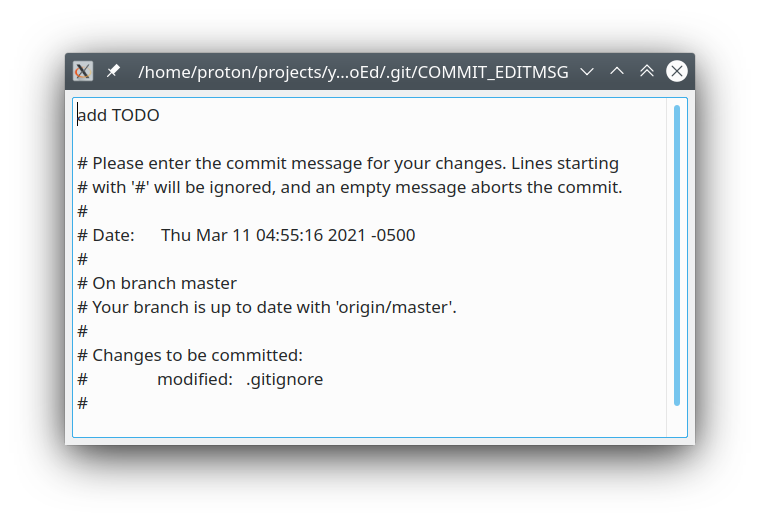
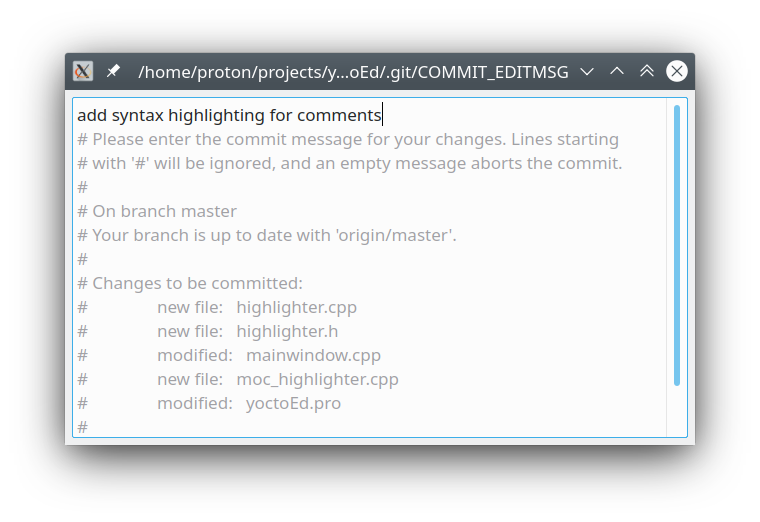
add syntax highlighting for comments

diff --git a/moc_highlighter.cpp b/moc_highlighter.cpp
@@ -1,0 +1,95 @@
+/****************************************************************************
+** Meta object code from reading C++ file 'highlighter.h'
+**
+** Created by: The Qt Meta Object Compiler version 67 (Qt 5.14.2)
+**
+** WARNING! All changes made in this file will be lost!
+*****************************************************************************/
+
+#include <memory>
+#include "highlighter.h"
+#include <QtCore/qbytearray.h>
+#include <QtCore/qmetatype.h>
+#if !defined(Q_MOC_OUTPUT_REVISION)
+#error "The header file 'highlighter.h' doesn't include <QObject>."
+#elif Q_MOC_OUTPUT_REVISION != 67
+#error "This file was generated using the moc from 5.14.2. It"
+#error "cannot be used with the include files from this version of Qt."
+#error "(The moc has changed too much.)"
+#endif
+
+QT_BEGIN_MOC_NAMESPACE
+QT_WARNING_PUSH
+QT_WARNING_DISABLE_DEPRECATED
+struct qt_meta_stringdata_Highlighter_t {
+    QByteArrayData data[1];
+    char stringdata0[12];
+};
+#define QT_MOC_LITERAL(idx, ofs, len) \
+    Q_STATIC_BYTE_ARRAY_DATA_HEADER_INITIALIZER_WITH_OFFSET(len, \
+    qptrdiff(offsetof(qt_meta_stringdata_Highlighter_t, stringdata0) + ofs \
+        - idx * sizeof(QByteArrayData)) \
+    )
+static const qt_meta_stringdata_Highlighter_t qt_meta_stringdata_Highlighter = {
+    {
+QT_MOC_LITERAL(0, 0, 11) // "Highlighter"
+
+    },
+    "Highlighter"
+};
+#undef QT_MOC_LITERAL
+
+static const uint qt_meta_data_Highlighter[] = {
+
+ // content:
+       8,       // revision
+       0,       // classname
+       0,    0, // classinfo
+       0,    0, // methods
+       0,    0, // properties
+       0,    0, // enums/sets
+       0,    0, // constructors
+       0,       // flags
+       0,       // signalCount
+
+       0        // eod
+};
+
+void Highlighter::qt_static_metacall(QObject *_o, QMetaObject::Call _c, int _id, void **_a)
+{
+    Q_UNUSED(_o);
+    Q_UNUSED(_id);
+    Q_UNUSED(_c);
+    Q_UNUSED(_a);
+}
+
+QT_INIT_METAOBJECT const QMetaObject Highlighter::staticMetaObject = { {
+    QMetaObject::SuperData::link<QSyntaxHighlighter::staticMetaObject>(),
+    qt_meta_stringdata_Highlighter.data,
+    qt_meta_data_Highlighter,
+    qt_static_metacall,
+    nullptr,
+    nullptr
+} };
+
+
+const QMetaObject *Highlighter::metaObject() const
+{
+    return QObject::d_ptr->metaObject ? QObject::d_ptr->dynamicMetaObject() : &staticMetaObject;
+}
+
+void *Highlighter::qt_metacast(const char *_clname)
+{
+    if (!_clname) return nullptr;
+    if (!strcmp(_clname, qt_meta_stringdata_Highlighter.stringdata0))
+        return static_cast<void*>(this);
+    return QSyntaxHighlighter::qt_metacast(_clname);
+}
+
+int Highlighter::qt_metacall(QMetaObject::Call _c, int _id, void **_a)
+{
+    _id = QSyntaxHighlighter::qt_metacall(_c, _id, _a);
+    return _id;
+}
+QT_WARNING_POP
+QT_END_MOC_NAMESPACE

diff --git a/highlighter.cpp b/highlighter.cpp
@@ -1,0 +1,22 @@
+#include "highlighter.h"
+
+Highlighter::Highlighter(QTextDocument *parent) : QSyntaxHighlighter(parent)
+{
+
+    HighlightingRule rule;
+    rule.format.setForeground(Qt::gray);
+    rule.pattern = QRegularExpression("#.*");
+    highlightingRules.append(rule);
+
+}
+
+void Highlighter::highlightBlock(const QString &text)
+{
+    for (const HighlightingRule &rule : qAsConst(highlightingRules)) {
+        QRegularExpressionMatchIterator matchIterator = rule.pattern.globalMatch(text);
+        while (matchIterator.hasNext()) {
+            QRegularExpressionMatch match = matchIterator.next();
+            setFormat(match.capturedStart(), match.capturedLength(), rule.format);
+        }
+    }
+}

diff --git a/highlighter.h b/highlighter.h
@@ -1,0 +1,25 @@
+#ifndef HIGHLIGHTER_H
+#define HIGHLIGHTER_H
+
+#include <QSyntaxHighlighter>
+#include <QRegularExpression>
+
+class Highlighter : public QSyntaxHighlighter
+{
+    Q_OBJECT
+
+public:
+    Highlighter(QTextDocument *parent = 0);
+
+protected:
+    void highlightBlock(const QString &text) override;
+
+private:
+    struct HighlightingRule
+    {
+        QRegularExpression pattern;
+        QTextCharFormat format;
+    };
+    QVector<HighlightingRule> highlightingRules;
+};
+#endif // HIGHLIGHTER_H

diff --git a/mainwindow.cpp b/mainwindow.cpp
@@ -1,5 +1,6 @@
 #include "mainwindow.h"
 #include "ui_mainwindow.h"
+#include "highlighter.h"
 
 #include <QFile>
 #include <QTextStream>
@@ -19,6 +20,8 @@ MainWindow::MainWindow(QWidget *parent)
     auto content = in.readAll();
     file.close();
     ui->textEdit->setPlainText(content);
+
+    new Highlighter(ui->textEdit->document());
 
     this->setWindowTitle(this->filePath);
 
